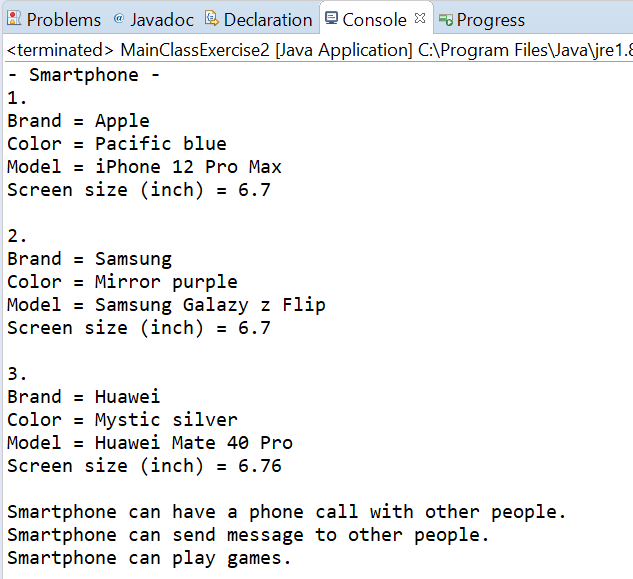
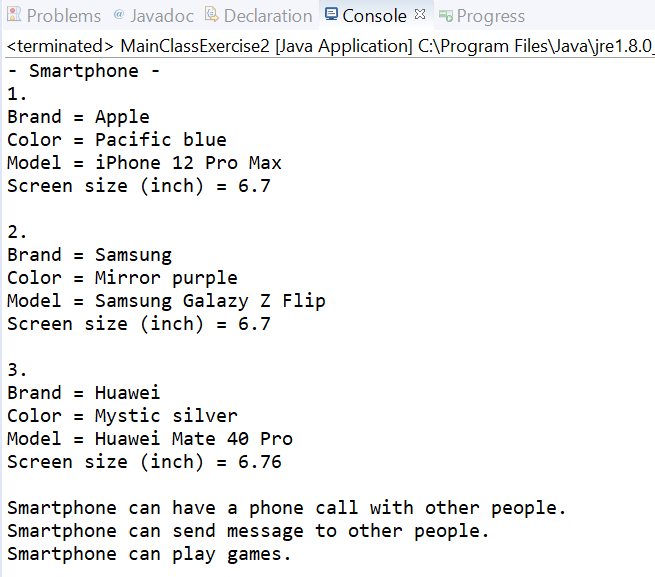
Add files via upload

Changed region(s): [[0.0, 0.0, 1.0, 0.3432], [0.0, 0.6239, 0.9005, 0.9983], [0.0, 0.3744, 0.5103, 0.5927]]

diff --git a/Exercise 2/1. ClassSmartphone.java b/Exercise 2/1. ClassSmartphone.java
@@ -4,7 +4,7 @@ public class ClassSmartphone {
 	
 	String brand [] = {"Apple", "Samsung", "Huawei"};
 	String color [] = {"Pacific blue", "Mirror purple", "Mystic silver"};
-	String model [] = {"iPhone 12 Pro Max", "Samsung Galazy z Flip", "Huawei Mate 40 Pro"};
+	String model [] = {"iPhone 12 Pro Max", "Samsung Galazy Z Flip", "Huawei Mate 40 Pro"};
 	double screenSize [] = {6.7, 6.7, 6.76};
 	
 	void phone1() {
